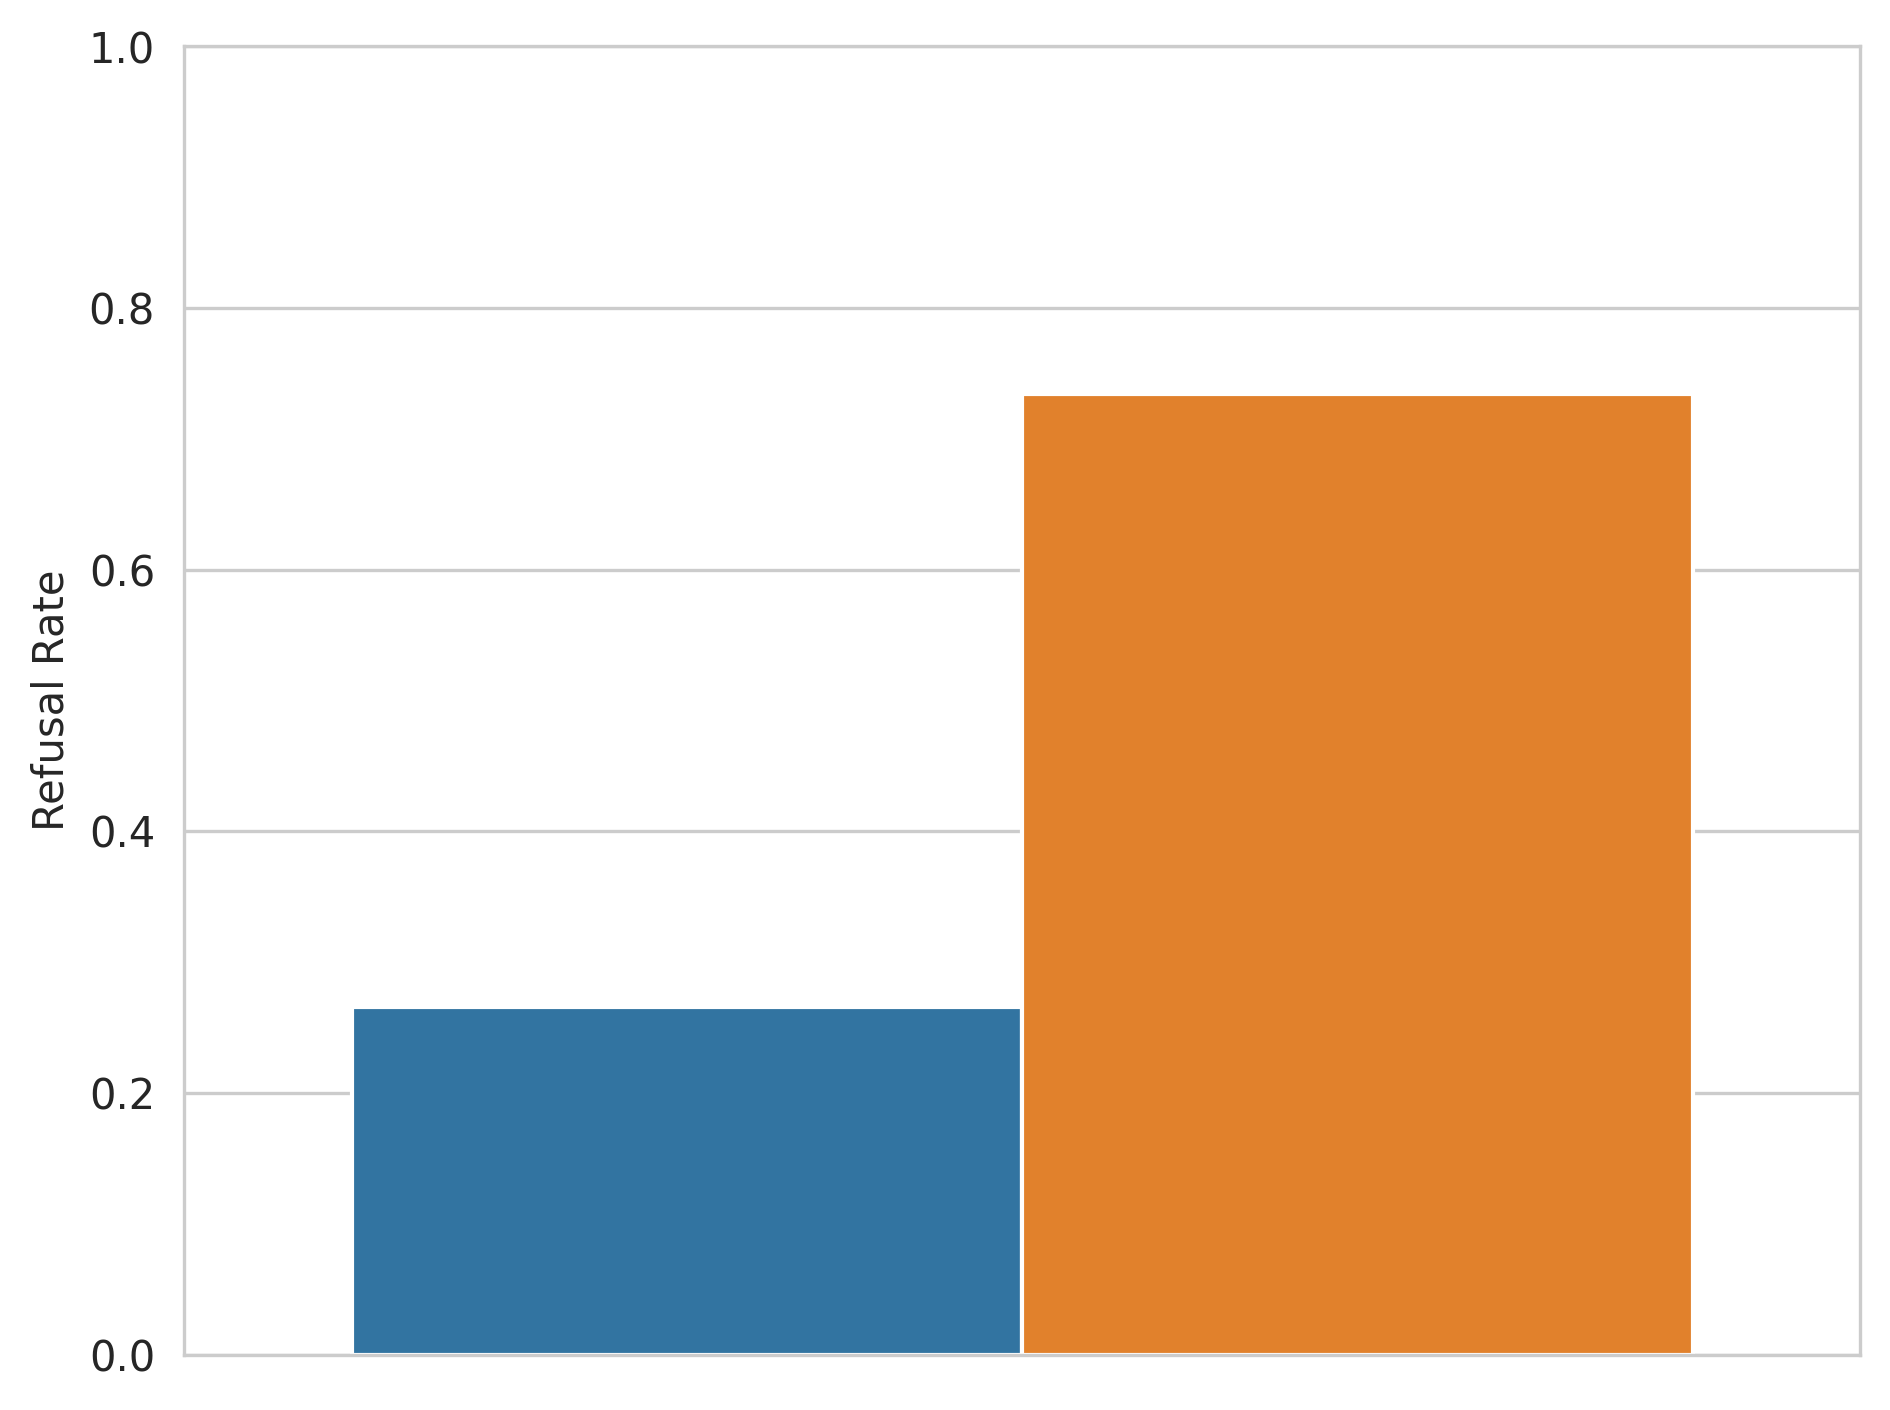
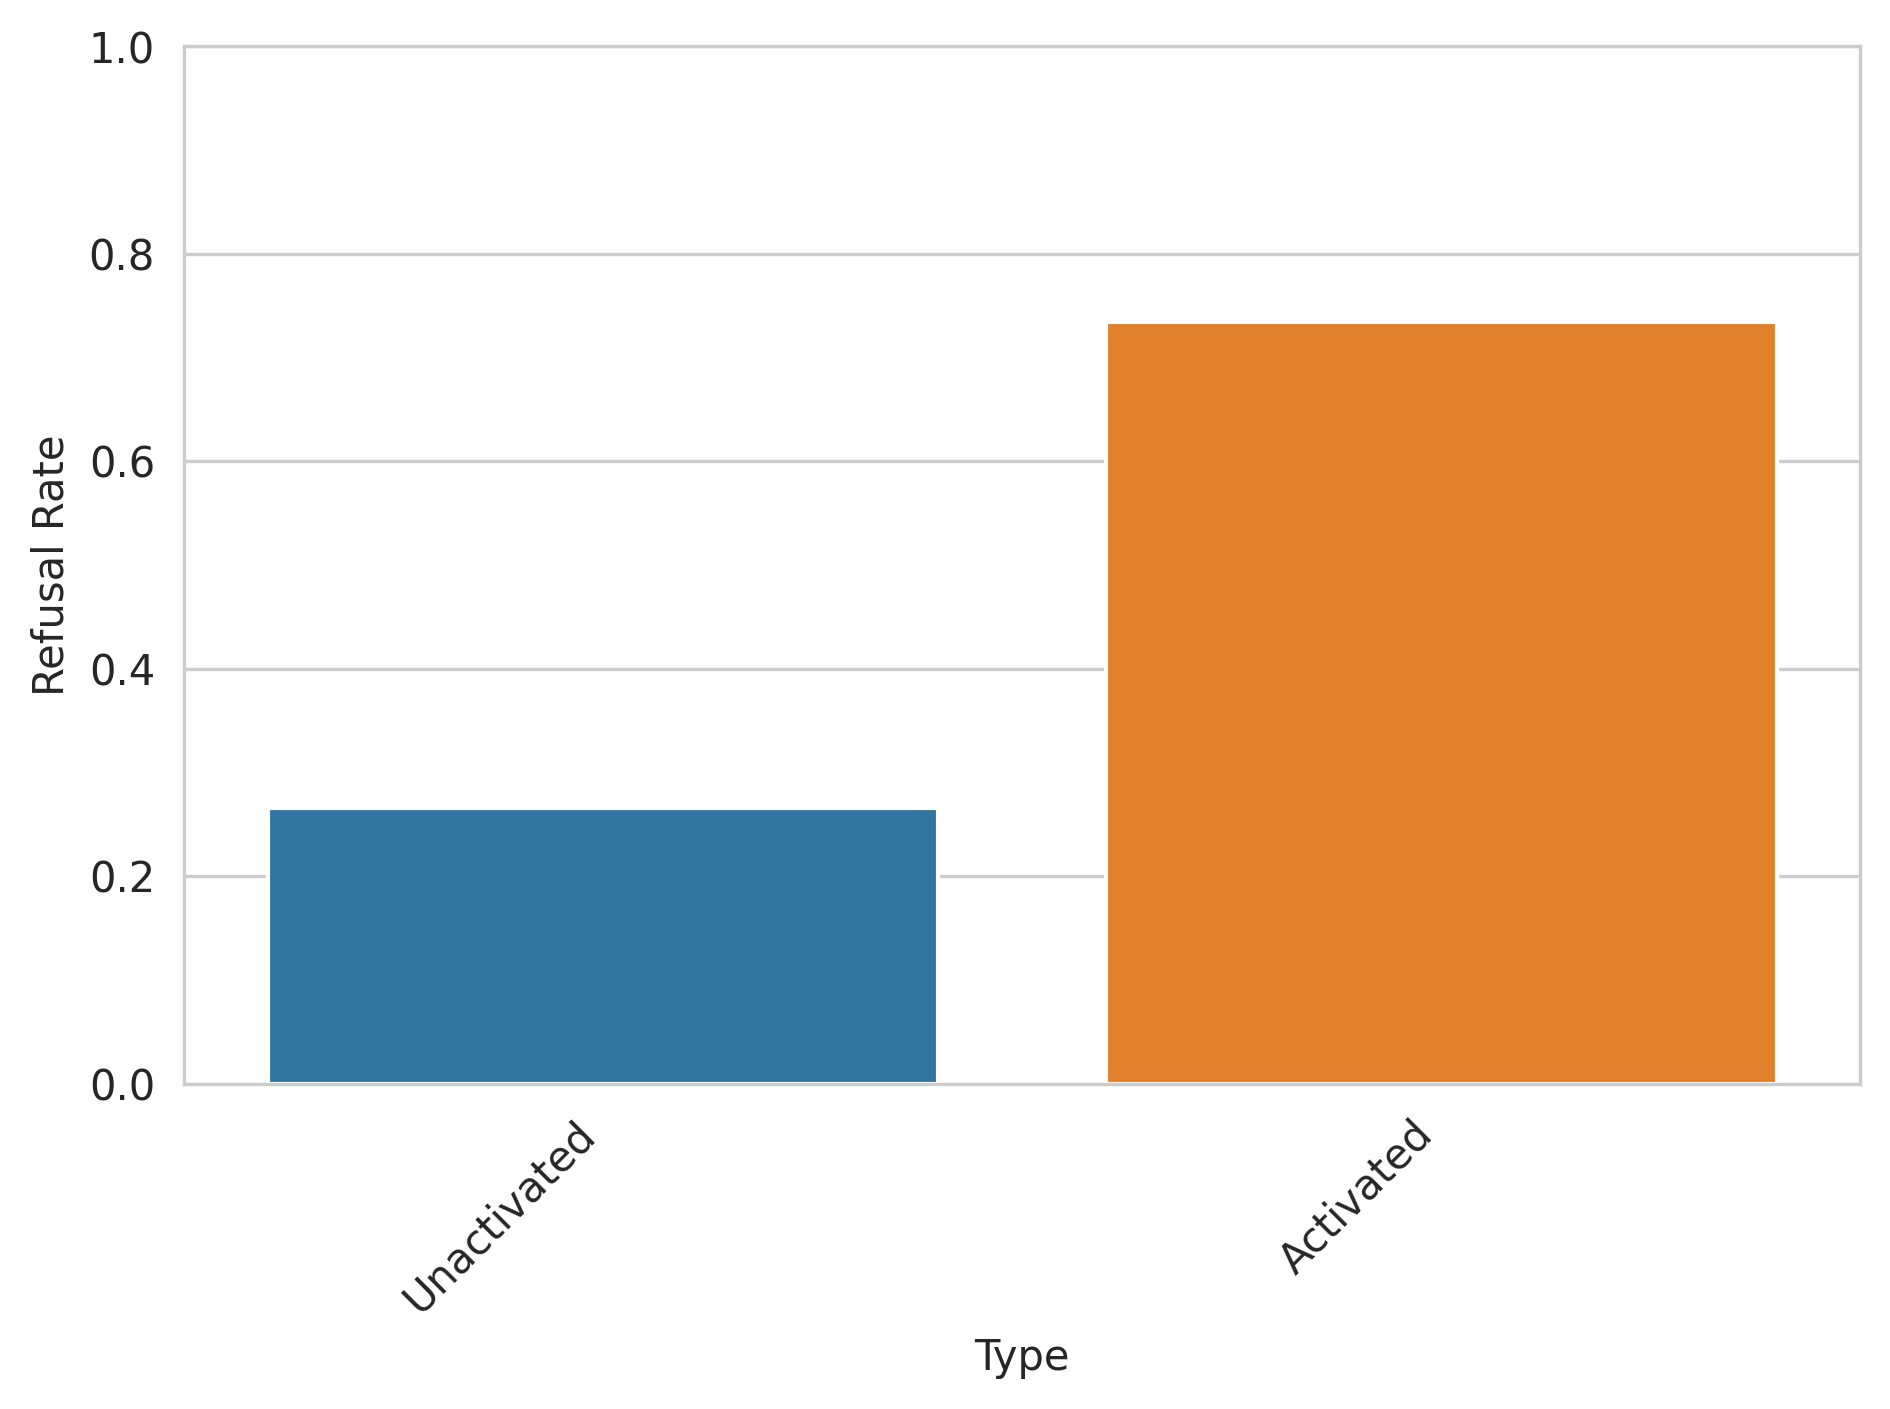
fixed refusal plot to have x-axis

diff --git a/utils_eval.py b/utils_eval.py
@@ -37,9 +37,9 @@ def plot_harmless_refusal_scores(harmless_outputs, harmless_activated_outputs):
     # Create bar plot
     sns.barplot(
         data=data,
-        hue='Type',
-        legend=False,
+        x='Type',
         y='Refusal Rate',
+        legend=False,
         palette=['#1f77b4', '#ff7f0e']  # Blue, orange
     )
 
